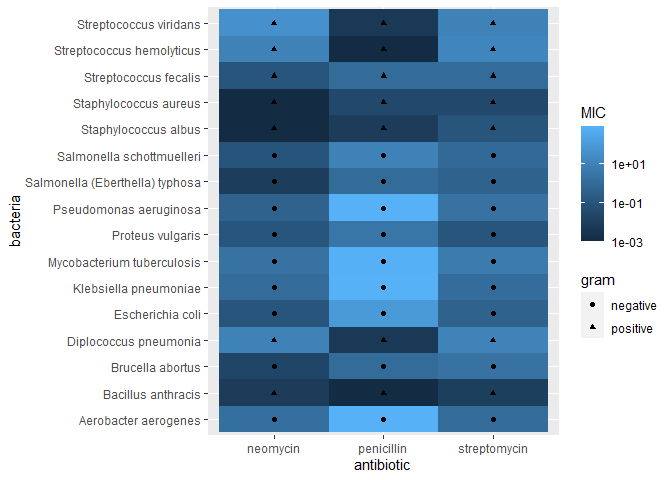
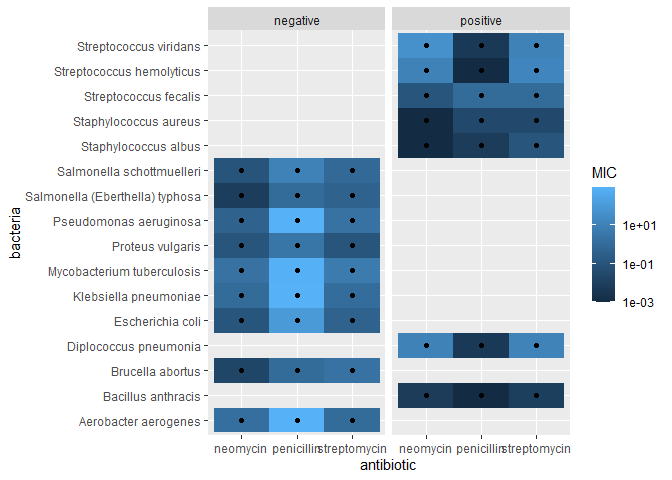
Update challenge 5.

diff --git a/challenges/c05-antibiotics-assignment.md b/challenges/c05-antibiotics-assignment.md
@@ -1,7 +1,7 @@
 Antibiotics
 ================
 Aaron Huang
-2023-3-2
+2023-4-20
 
 *Purpose*: Creating effective data visualizations is an *iterative*
 process; very rarely will the first graph you make be the most
@@ -204,7 +204,8 @@ df_antibiotics_pivot %>%
   ggplot(aes(antibiotic, bacteria, fill = MIC)) +
   geom_tile() +
   scale_fill_continuous(trans = "log10") +
-  geom_point(aes(x = antibiotic, y = bacteria, shape = gram))
+  geom_point(aes(x = antibiotic, y = bacteria)) +
+  facet_grid(~gram)
 ```
 
 ![](c05-antibiotics-assignment_files/figure-gfm/q1.2-1.png)<!-- -->
@@ -220,10 +221,10 @@ your other visuals.
 
 ``` r
 df_antibiotics_pivot %>%
-  ggplot(aes(bacteria, antibiotic, size = MIC)) +
-  geom_point() +
-  theme(axis.text.x = element_text(angle = 90)) +
-  scale_size_continuous(trans = "log10")
+  ggplot(aes(x = "", y = MIC, fill = bacteria)) +
+    geom_bar(stat="identity", width=1) +
+    coord_polar("y", start=0) +
+    facet_grid(~antibiotic)
 ```
 
 ![](c05-antibiotics-assignment_files/figure-gfm/q1.3-1.png)<!-- -->
@@ -287,11 +288,10 @@ opportunity to think about why this is.**
 *Observations* - What is your response to the question above? - The
 antibiotic neomycin was effective against most bacteria genera, with it
 being extremely effective against staphylococcus genus. The antibiotic
-streptomycin had comparable effectiveness to neomycin, but is not very
-effective against any particular genus. Penicillin seems to target
-specific bacteria because it is extremely effective against
-Streptococcus genus, but does little to none to others such as
-Pseudomonas aeruginosa or Mycobacterium tuberculosis. It is also
+streptomycin is only effective against 4 of the bacteria strains.
+Penicillin seems to target specific bacteria because it is extremely
+effective against Streptococcus genus, but does little to none to others
+such as Pseudomonas aeruginosa or Mycobacterium tuberculosis. It is also
 effective against Staphylococcus genus, Diplococcus pneumonia, and
 Bacillus anthracis. In general, it appears neomycin and streptomycin is
 most effective against positive gram bacteria, but is also effective
